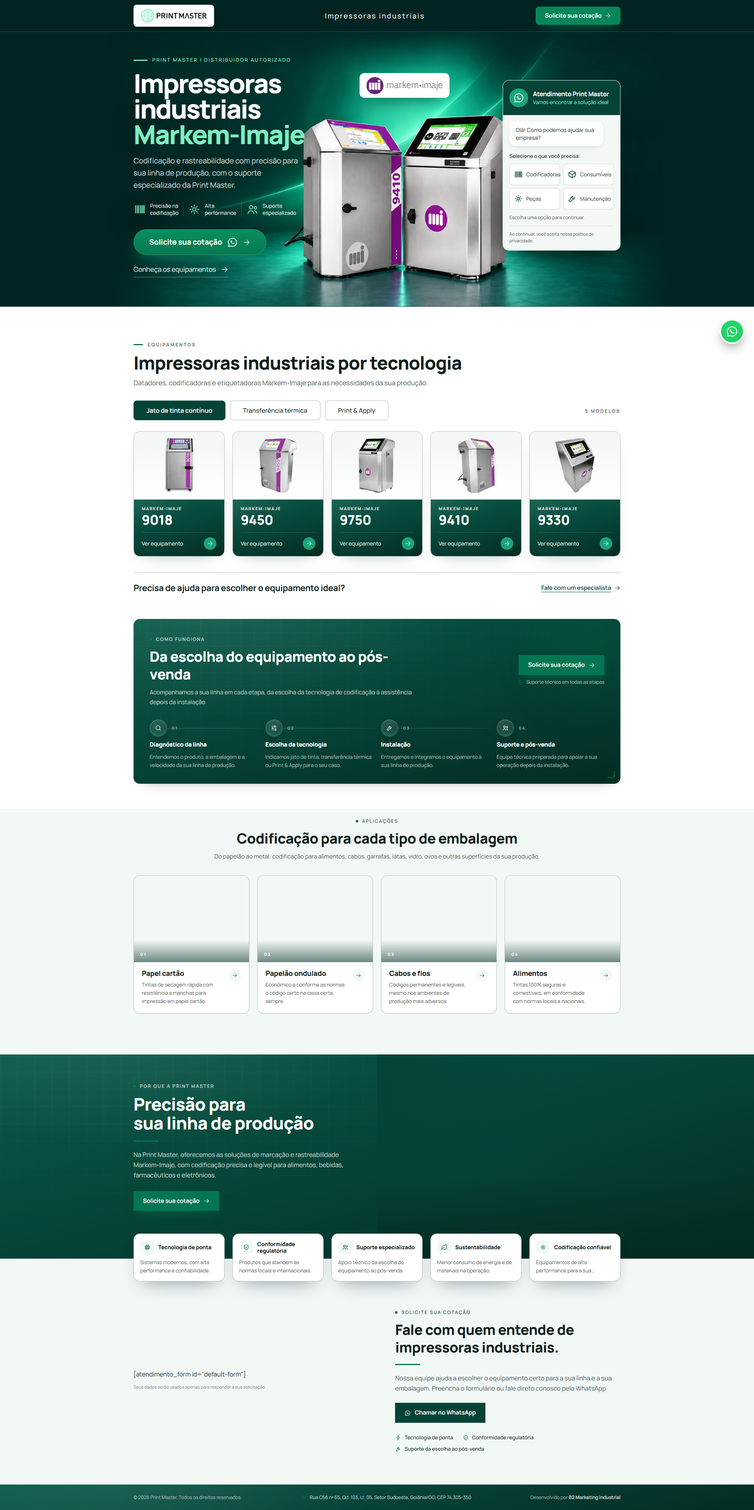
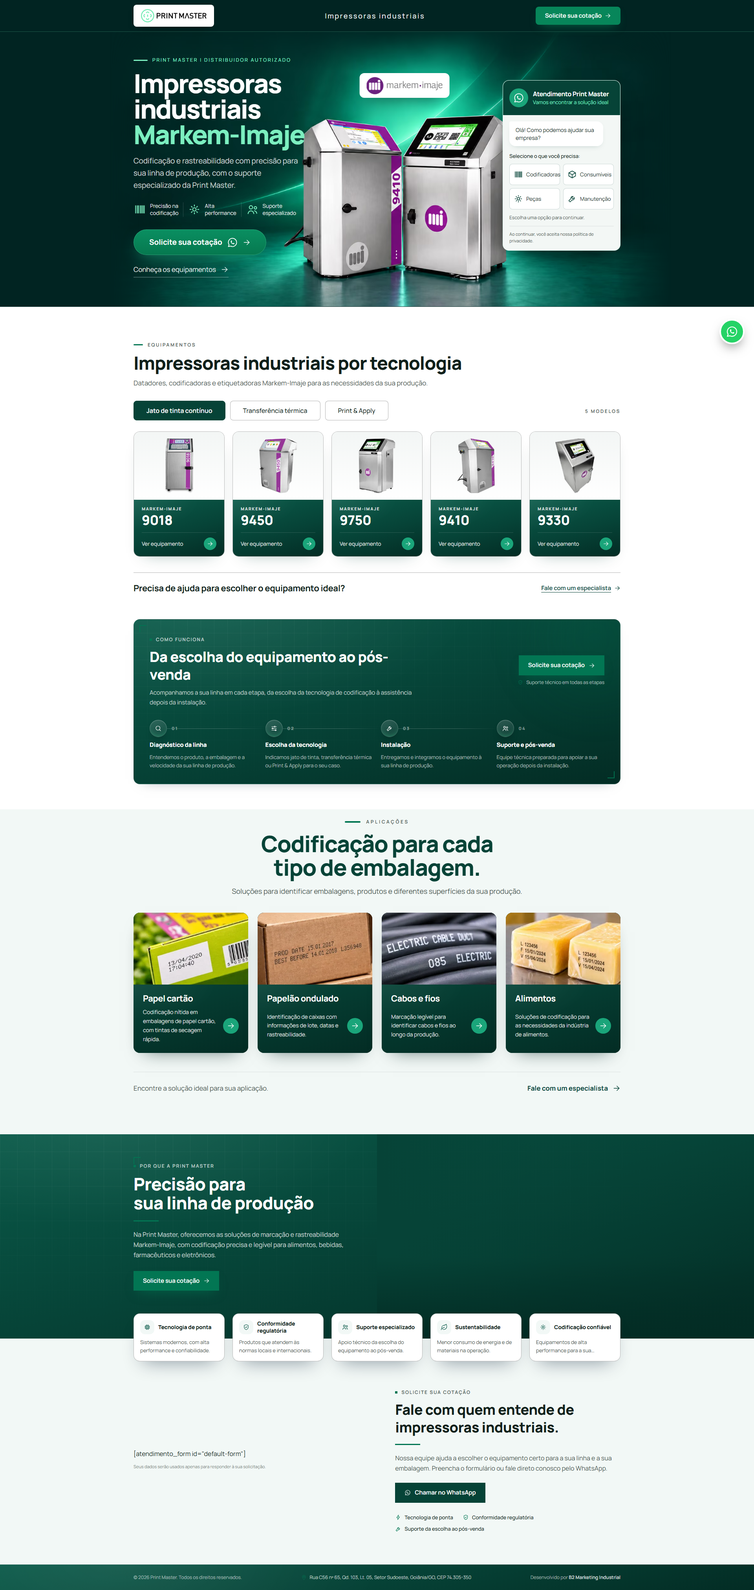
feat: aplicações no mockup da Print Master
- cabeçalho centrado com o H2 em duas linhas (só a partir do tablet) e o
  texto do mockup;
- cards com foto 8:5 recortada do mockup e corpo verde-escuro, com título,
  frase nova e seta;
- faixa "Encontre a solução ideal para sua aplicação." com o CTA
  aplicacoes-cta, registrado no lp.manifest.json;
- variante local registrada no BRIEFING e textos alinhados na ficha.

Changed region(s): [[0.0, 0.0, 1.0, 0.9987], [0.1875, 0.9051, 0.3438, 0.9363]]

diff --git a/src/data/sections/aplicacoes.ts b/src/data/sections/aplicacoes.ts
@@ -1,7 +1,9 @@
 /**
  * Dados da seção "Aplicações" (biblioteca B2, fase: prova).
  *
- * 4 cards-botão com foto 4:3 e cabeçalho centrado. O card inteiro é o CTA.
+ * VARIANTE LOCAL — Print Master, mockup de 27/10/2026 (docs/BRIEFING.md): H2 em duas linhas,
+ * cards com foto 8:5 (recortadas do mockup) e corpo verde-escuro, e uma faixa de ajuda no fim.
+ * O card inteiro é o CTA.
  */
 import type { Photo } from '@data/types'
 
@@ -19,39 +21,46 @@ export interface Application {
 
 export const applications = {
   eyebrow: 'Aplicações',
-  title: 'Codificação para cada tipo de embalagem',
-  text: 'Do papelão ao metal: codificação para alimentos, cabos, garrafas, latas, vidro, ovos e outras superfícies da sua produção.',
+  title: 'Codificação para cada tipo de embalagem.',
+  /** O H2 quebrado em duas linhas, como no mockup. */
+  titleLines: ['Codificação para cada', 'tipo de embalagem.'],
+  text: 'Soluções para identificar embalagens, produtos e diferentes superfícies da sua produção.',
+  help: {
+    text: 'Encontre a solução ideal para sua aplicação.',
+    cta: 'Fale com um especialista',
+  },
   items: [
     {
       id: 'papel-cartao',
       label: 'Papel cartão',
       description:
-        'Tintas de secagem rápida com resistência a manchas para impressão em papel cartão.',
-      photo: { src: app1, alt: 'Data de validade e lote impressos em embalagem de papel cartão' },
+        'Codificação nítida em embalagens de papel cartão, com tintas de secagem rápida.',
+      photo: { src: app1, alt: 'Data e hora impressas em embalagem de papel cartão' },
     },
     {
       id: 'papelao',
       label: 'Papelão ondulado',
-      description: 'Econômico e conforme as normas: o código certo na caixa certa, sempre.',
+      description: 'Identificação de caixas com informações de lote, datas e rastreabilidade.',
       photo: { src: app2, alt: 'Data de produção e lote impressos em caixa de papelão ondulado' },
     },
     {
       id: 'cabos-fios',
       label: 'Cabos e fios',
-      description: 'Códigos permanentes e legíveis, mesmo nos ambientes de produção mais adversos.',
-      photo: { src: app3, alt: 'Marcação impressa na capa de cabos elétricos' },
+      description: 'Marcação legível para identificar cabos e fios ao longo da produção.',
+      photo: { src: app3, alt: 'Marcação impressa na capa de cabos elétricos pretos' },
     },
     {
       id: 'alimentos',
       label: 'Alimentos',
-      description:
-        'Tintas 100% seguras e comestíveis, em conformidade com normas locais e nacionais.',
-      photo: { src: app4, alt: 'Queijos embalados com data e código de barras impressos' },
+      description: 'Soluções de codificação para as necessidades da indústria de alimentos.',
+      photo: { src: app4, alt: 'Queijos embalados com lote e datas impressos' },
     },
   ],
 } as const satisfies {
   eyebrow: string
   title: string
+  titleLines: readonly string[]
   text: string
+  help: { text: string; cta: string }
   items: readonly [Application, Application, Application, Application]
 }

diff --git a/docs/BRIEFING.md b/docs/BRIEFING.md
@@ -113,25 +113,26 @@ Derivada em: 26/10/2026 · comando aplicado: `npm run compose -- vitrine process
 | Asset                    | Arquivo esperado                          | Especificação               | Status                                                                                           |
 | ------------------------ | ----------------------------------------- | --------------------------- | ------------------------------------------------------------------------------------------------ |
 | Produtos da vitrine (12) | `src/assets/vitrine/produto-1…12.png`     | 800×600, fundo transparente | entregue — fotos do site, recortadas e centralizadas (9018 e 9450 tinham fundo branco, removido) |
-| Fotos das aplicações (4) | `src/assets/aplicacoes/aplicacao-1…4.jpg` | 1200×900 (4:3)              | **provisório** — faixas de 442 a 631 px do site em quadro 4:3 de 600×450, com fundo desfocado    |
+| Fotos das aplicações (4) | `src/assets/aplicacoes/aplicacao-1…4.jpg` | 8:5, 640×400                | **provisório** — recortadas do mockup de 27/10/2026 (400×250); pedir as fotos em alta            |
 | Cenário                  | `src/assets/diferenciais/cenario.jpg`     | 1600×900                    | **provisório** — garrafa de vidro codificada, da página atual                                    |
 | Pessoa                   | `src/assets/diferenciais/pessoa.png`      | 1220×1000, recortada        | **provisório** — três equipamentos recortados (9410, Cimpak, SmartDate X45) no lugar da pessoa   |
 
 ## Desvios locais do padrão
 
-| Arquivo                                                                                             | O que mudou                                                                                                                                                                                                                                            | Por quê                                                                                                                                                                                                                                                                                                                                                                                                                                                                                                |
-| --------------------------------------------------------------------------------------------------- | ------------------------------------------------------------------------------------------------------------------------------------------------------------------------------------------------------------------------------------------------------ | ------------------------------------------------------------------------------------------------------------------------------------------------------------------------------------------------------------------------------------------------------------------------------------------------------------------------------------------------------------------------------------------------------------------------------------------------------------------------------------------------------ |
-| `src/styles/global.css`                                                                             | tokens com os verdes da marca; Manrope de `@fontsource-variable/manrope` com reserva de métricas Arial                                                                                                                                                 | entrada 14; a troca tardia do Google Fonts estourou o CLS no Lighthouse CI da LP de locação                                                                                                                                                                                                                                                                                                                                                                                                            |
-| `src/layouts/Layout.astro`                                                                          | preload do woff2 latino no lugar dos links do Google Fonts                                                                                                                                                                                             | idem                                                                                                                                                                                                                                                                                                                                                                                                                                                                                                   |
-| `src/components/Header.astro`                                                                       | mockup de abertura (26/10/2026): barra verde-escura com fio menta, logo em caixa branca dentro da barra, tagline "Impressoras industriais" e CTA verde arredondado com seta                                                                            | pedido do usuário; ordem logo · tagline · CTA mantida                                                                                                                                                                                                                                                                                                                                                                                                                                                  |
-| `src/components/Hero.astro`, `src/data/content.ts`                                                  | 2º mockup de abertura (26/10/2026): eyebrow "Print Master                                                                                                                                                                                              | Distribuidor autorizado", H1 em três linhas com "Markem-Imaje" em menta, pontos sem caixa, botão em pílula com WhatsApp e link "Conheça os equipamentos" (âncora `#vitrine`, `data-cta="hero-secondary"`), selo Markem-Imaje sobre o 9410 e o 9750, banner ancorado pelo centro da coluna 2 (texto 440px · janela · chat 300px); fora do WordPress o shortcode cru do chat vira a prévia do widget (CTAs `hero-chat-codificadoras`, `-consumiveis`, `-pecas`, `-manutencao`) antes da primeira pintura | pedido do usuário; grid de três colunas e coluna de 300px do chat mantidos; o botão flutuante de WhatsApp do mockup espera o número comercial |
-| `src/components/sections/ProductShowcase.astro`, `src/data/sections/vitrine.ts`, `lp.manifest.json` | variante local do mockup da vitrine (26/10/2026): grupos em abas acessíveis com a contagem de modelos, cards com foto grande e painel verde-escuro (marca, modelo em destaque, "Ver equipamento"), faixa "Precisa de ajuda…" com o CTA `vitrine-ajuda` | pedido do usuário; **o `compose` sobrescreve o componente** — reaplicar após recompor                                                                                                                                                                                                                                                                                                                                                                                                                  |
-| `src/components/Hero.astro` (banner)                                                                | o banner é dimensionado pela largura entre o texto e o chat (`--photo-w`), ancorado pela base e pelo centro do par (52,5%); fundo do header e do hero em `--color-hero-deep` (#012422, a borda da imagem)                                              | o par de equipamentos tem sempre a largura da janela, em qualquer tela                                                                                                                                                                                                                                                                                                                                                                                                                                 |
-| `src/components/WhatsAppFloat.astro`, `src/layouts/Layout.astro`                                    | o botão flutuante aparece sem número: vira `button.btn-slave-whats` com `data-cta="float-whatsapp"` (o plugin abre a conversa); com número, volta a ser o link `wa.me`                                                                                 | mockup de 26/10/2026; o número comercial segue pendente                                                                                                                                                                                                                                                                                                                                                                                                                                                |
-| `src/data/icons.ts`                                                                                 | ícone `whatsapp` trocado pelo glifo do WhatsApp (Tabler Icons, MIT)                                                                                                                                                                                    | o balão genérico não era reconhecido como WhatsApp                                                                                                                                                                                                                                                                                                                                                                                                                                                     |
-| `scripts/check-lp.mjs`                                                                              | assinaturas A8 do Header e do Hero repinadas, com comentário datado                                                                                                                                                                                    | o redesenho do mockup trocou as classes que o check conferia                                                                                                                                                                                                                                                                                                                                                                                                                                           |
-| `src/components/sections/ProcessSteps.astro`, `WhyBrand.astro`                                      | brilho do botão em `rgba(2,118,83,0.6)` no lugar do laranja fixo                                                                                                                                                                                       | idem; **o `compose` sobrescreve estes dois** — reaplicar após recompor                                                                                                                                                                                                                                                                                                                                                                                                                                 |
-| `src/components/BrandCarousel.astro`, `src/data/brands.ts`, `src/assets/brands/`                    | removidos                                                                                                                                                                                                                                              | nenhuma seção da composição usa o carrossel (regra 12)                                                                                                                                                                                                                                                                                                                                                                                                                                                 |
+| Arquivo                                                                                                    | O que mudou                                                                                                                                                                                                                                            | Por quê                                                                                                                                                                                                                                                                                                                                                                                                                                                                                                |
+| ---------------------------------------------------------------------------------------------------------- | ------------------------------------------------------------------------------------------------------------------------------------------------------------------------------------------------------------------------------------------------------ | ------------------------------------------------------------------------------------------------------------------------------------------------------------------------------------------------------------------------------------------------------------------------------------------------------------------------------------------------------------------------------------------------------------------------------------------------------------------------------------------------------ |
+| `src/styles/global.css`                                                                                    | tokens com os verdes da marca; Manrope de `@fontsource-variable/manrope` com reserva de métricas Arial                                                                                                                                                 | entrada 14; a troca tardia do Google Fonts estourou o CLS no Lighthouse CI da LP de locação                                                                                                                                                                                                                                                                                                                                                                                                            |
+| `src/layouts/Layout.astro`                                                                                 | preload do woff2 latino no lugar dos links do Google Fonts                                                                                                                                                                                             | idem                                                                                                                                                                                                                                                                                                                                                                                                                                                                                                   |
+| `src/components/Header.astro`                                                                              | mockup de abertura (26/10/2026): barra verde-escura com fio menta, logo em caixa branca dentro da barra, tagline "Impressoras industriais" e CTA verde arredondado com seta                                                                            | pedido do usuário; ordem logo · tagline · CTA mantida                                                                                                                                                                                                                                                                                                                                                                                                                                                  |
+| `src/components/Hero.astro`, `src/data/content.ts`                                                         | 2º mockup de abertura (26/10/2026): eyebrow "Print Master                                                                                                                                                                                              | Distribuidor autorizado", H1 em três linhas com "Markem-Imaje" em menta, pontos sem caixa, botão em pílula com WhatsApp e link "Conheça os equipamentos" (âncora `#vitrine`, `data-cta="hero-secondary"`), selo Markem-Imaje sobre o 9410 e o 9750, banner ancorado pelo centro da coluna 2 (texto 440px · janela · chat 300px); fora do WordPress o shortcode cru do chat vira a prévia do widget (CTAs `hero-chat-codificadoras`, `-consumiveis`, `-pecas`, `-manutencao`) antes da primeira pintura | pedido do usuário; grid de três colunas e coluna de 300px do chat mantidos; o botão flutuante de WhatsApp do mockup espera o número comercial |
+| `src/components/sections/ProductShowcase.astro`, `src/data/sections/vitrine.ts`, `lp.manifest.json`        | variante local do mockup da vitrine (26/10/2026): grupos em abas acessíveis com a contagem de modelos, cards com foto grande e painel verde-escuro (marca, modelo em destaque, "Ver equipamento"), faixa "Precisa de ajuda…" com o CTA `vitrine-ajuda` | pedido do usuário; **o `compose` sobrescreve o componente** — reaplicar após recompor                                                                                                                                                                                                                                                                                                                                                                                                                  |
+| `src/components/Hero.astro` (banner)                                                                       | o banner é dimensionado pela largura entre o texto e o chat (`--photo-w`), ancorado pela base e pelo centro do par (52,5%); fundo do header e do hero em `--color-hero-deep` (#012422, a borda da imagem)                                              | o par de equipamentos tem sempre a largura da janela, em qualquer tela                                                                                                                                                                                                                                                                                                                                                                                                                                 |
+| `src/components/WhatsAppFloat.astro`, `src/layouts/Layout.astro`                                           | o botão flutuante aparece sem número: vira `button.btn-slave-whats` com `data-cta="float-whatsapp"` (o plugin abre a conversa); com número, volta a ser o link `wa.me`                                                                                 | mockup de 26/10/2026; o número comercial segue pendente                                                                                                                                                                                                                                                                                                                                                                                                                                                |
+| `src/data/icons.ts`                                                                                        | ícone `whatsapp` trocado pelo glifo do WhatsApp (Tabler Icons, MIT)                                                                                                                                                                                    | o balão genérico não era reconhecido como WhatsApp                                                                                                                                                                                                                                                                                                                                                                                                                                                     |
+| `src/components/sections/ApplicationsGallery.astro`, `src/data/sections/aplicacoes.ts`, `lp.manifest.json` | variante local do mockup das aplicações (27/10/2026): cabeçalho centrado com H2 em duas linhas, cards com foto 8:5 recortada do mockup e corpo verde-escuro, faixa "Encontre a solução ideal…" com o CTA `aplicacoes-cta`                              | pedido do usuário; **o `compose` sobrescreve o componente** — reaplicar após recompor                                                                                                                                                                                                                                                                                                                                                                                                                  |
+| `scripts/check-lp.mjs`                                                                                     | assinaturas A8 do Header e do Hero repinadas, com comentário datado                                                                                                                                                                                    | o redesenho do mockup trocou as classes que o check conferia                                                                                                                                                                                                                                                                                                                                                                                                                                           |
+| `src/components/sections/ProcessSteps.astro`, `WhyBrand.astro`                                             | brilho do botão em `rgba(2,118,83,0.6)` no lugar do laranja fixo                                                                                                                                                                                       | idem; **o `compose` sobrescreve estes dois** — reaplicar após recompor                                                                                                                                                                                                                                                                                                                                                                                                                                 |
+| `src/components/BrandCarousel.astro`, `src/data/brands.ts`, `src/assets/brands/`                           | removidos                                                                                                                                                                                                                                              | nenhuma seção da composição usa o carrossel (regra 12)                                                                                                                                                                                                                                                                                                                                                                                                                                                 |
 
 ## Conflitos com o padrão
 

diff --git a/docs/FICHA-LP.md b/docs/FICHA-LP.md
@@ -231,24 +231,25 @@ blocos:
     responde: [aplicacao-material]
     papeis: [Produção, Qualidade]
     eyebrow: Aplicações
-    title: Codificação para cada tipo de embalagem
-    text: 'Do papelão ao metal: codificação para alimentos, cabos, garrafas, latas, vidro, ovos e outras superfícies da sua produção.'
+    # variante local do mockup de 27/10/2026: H2 em duas linhas, cards verde-escuros e faixa de ajuda
+    title: Codificação para cada tipo de embalagem.
+    text: Soluções para identificar embalagens, produtos e diferentes superfícies da sua produção.
     items:
       - id: papel-cartao
         label: Papel cartão
-        description: Tintas de secagem rápida com resistência a manchas para impressão em papel cartão.
+        description: 'Codificação nítida em embalagens de papel cartão, com tintas de secagem rápida.'
         photo: Data de validade e lote impressos em embalagem de papel cartão
       - id: papelao
         label: Papelão ondulado
-        description: 'Econômico e conforme as normas: o código certo na caixa certa, sempre.'
+        description: 'Identificação de caixas com informações de lote, datas e rastreabilidade.'
         photo: Data de produção e lote impressos em caixa de papelão ondulado
       - id: cabos-fios
         label: Cabos e fios
-        description: Códigos permanentes e legíveis, mesmo nos ambientes de produção mais adversos.
+        description: Marcação legível para identificar cabos e fios ao longo da produção.
         photo: Marcação impressa na capa de cabos elétricos
       - id: alimentos
         label: Alimentos
-        description: Tintas 100% seguras e comestíveis, em conformidade com normas locais e nacionais.
+        description: Soluções de codificação para as necessidades da indústria de alimentos.
         photo: Queijos embalados com data e código de barras impressos
 
   segmentos:
